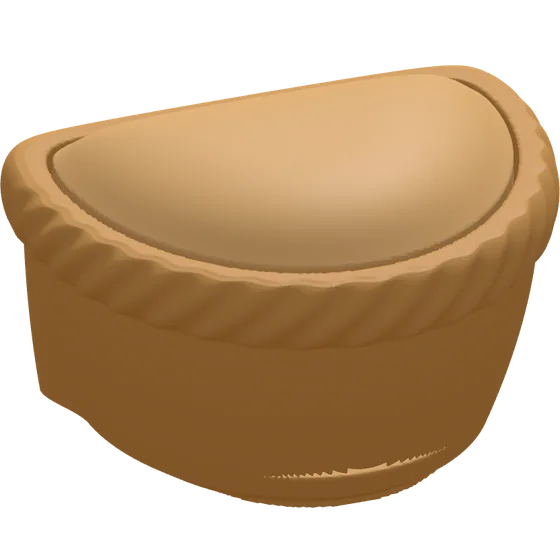
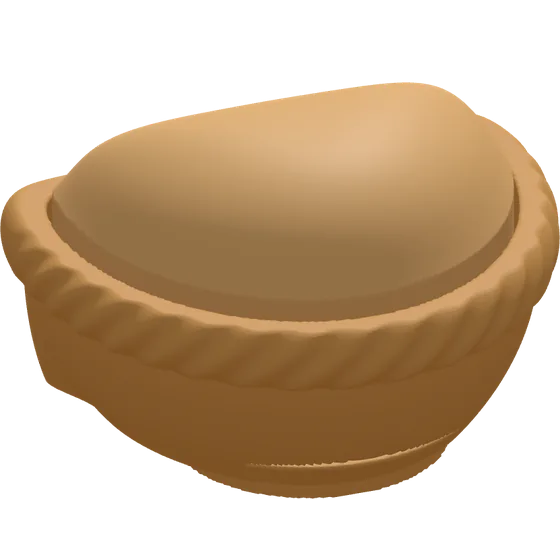
Empanada Pop v1.1: panza abajo, repulgue al medio y cúpula alta
Claude-Session: https://claude.ai/code/session_01CakWamoGNygWeoKn5u5X5H

Changed region(s): [[0.0, 0.0911, 1.0, 0.6375], [0.0607, 0.6375, 0.9107, 0.9107], [0.5768, 0.3036, 0.7286, 0.3643]]

diff --git a/clickly/index.html b/clickly/index.html
@@ -383,7 +383,7 @@ const POPS=[
  {id:'base',n:'Clickly Box',line:'base',c:'#2F6FE0',ct:'Click en la tapa',d:'Una cajita cuya tapa es el clicker. El modelo base, el que siempre está.'},
  {id:'medialuna',n:'Medialuna Pop',line:'ar',c:'#5E9FDC',ct:'Click en el rollito del medio',d:'Una medialuna gordita, con sus rollitos y sus cuernos.',m:'40,2 × 30,8 × 28,2 mm'},
  {id:'alfajor',n:'Alfajor Pop',line:'ar',c:'#7B4B2A',ct:'Click en la galleta de arriba',d:'Dos galletas con dulce de leche, todo marrón.',local:1,m:'44,2 × 44,2 × 26,4 mm'},
- {id:'empanada',n:'Empanada Pop',line:'ar',c:'#C98A3C',ct:'Click en la tapa',d:'Una empanada gordita, con su repulgue. Apretás la tapa y hace clic.',local:1,m:'43,9 × 35,3 × 29,4 mm'},
+ {id:'empanada',n:'Empanada Pop',line:'ar',c:'#C98A3C',ct:'Click en la tapa',d:'Una empanada gordita, con su repulgue. Apretás la tapa y hace clic.',local:1,m:'44,0 × 35,3 × 29,4 mm'},
  {id:'pancake',n:'Pancake Pop',line:'bf',c:'#E8A33D',ct:'Click en el panqueque de arriba',d:'Una pila de panqueques con almíbar y una pastillita de manteca arriba.'},
  {id:'macaron',n:'Pink Macaron Pop',line:'sweet',c:'#EF97B1',ct:'Click en la tapita de arriba',d:'Un macaron con tapitas rosa pastel y relleno blanco.',m:'Ø42,4 × 29 mm'},
  {id:'candy',n:'Candy Pop',line:'sweet',c:'#CDBFF0',ct:'Click en el medio',d:'Un caramelo con su envoltorio y las puntas torcidas.',local:1,m:'70,6 × 30,8 × 26,7 mm'},
